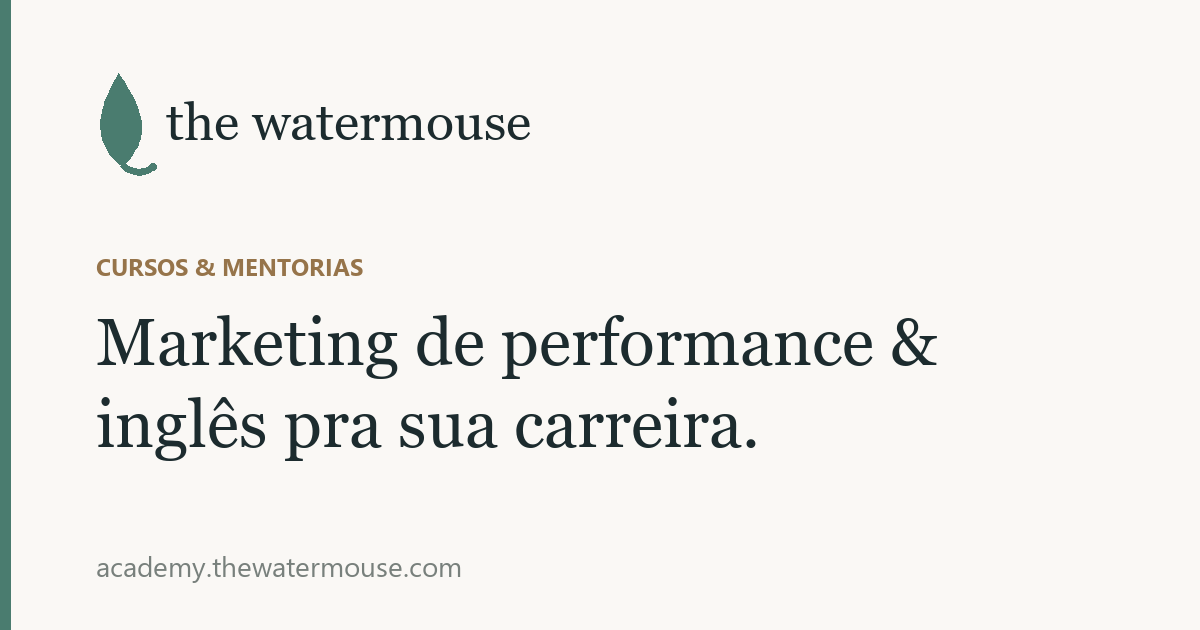
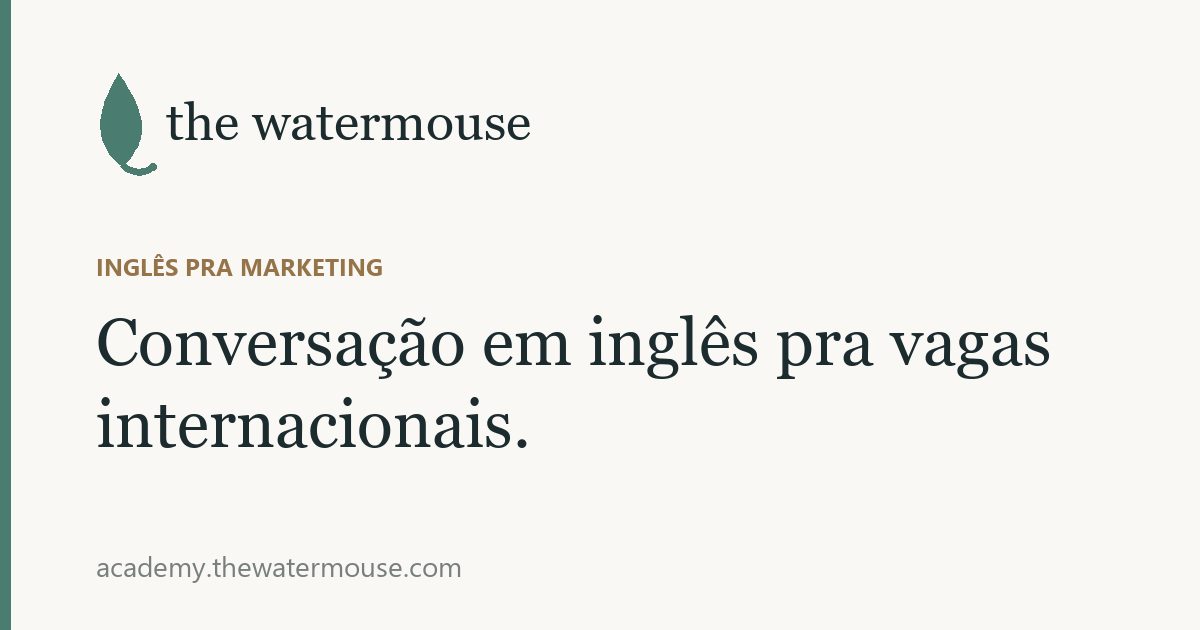
Academy: pivot to English-only — conversation classes for marketing pros seeking international jobs, built on Rodrigo's real story (NL/Cornershop/US remote); drop performance track; new og-image, schema, form level-qualifier

Changed region(s): [[0.0617, 0.4825, 0.8942, 0.6032], [0.1233, 0.6333, 0.6475, 0.754], [0.0617, 0.3921, 0.3392, 0.4524]]

diff --git a/index.html b/index.html
@@ -26,24 +26,24 @@
 })();
 </script>
 <meta name="viewport" content="width=device-width, initial-scale=1.0">
-<title>Watermouse Academy</title>
+<title>Inglês pra marketing — vagas internacionais | Watermouse Academy</title>
 <link href="https://fonts.googleapis.com/css2?family=Fraunces:ital,opsz,wght@0,9..144,300;0,9..144,400;0,9..144,500;1,9..144,300;1,9..144,400&family=DM+Sans:ital,wght@0,300;0,400;0,500;1,300&display=swap" rel="stylesheet">
 <link rel="icon" type="image/svg+xml" href="/favicon.svg">
 <link rel="canonical" href="https://academy.thewatermouse.com/">
 <meta property="og:type" content="website">
 <meta property="og:site_name" content="The Watermouse">
-<meta property="og:title" content="Watermouse Academy">
-<meta property="og:description" content="Marketing de performance na prática + inglês pra carreira, com o Digo — que roda contas de e-commerce na Europa. Entre na lista de espera.">
+<meta property="og:title" content="Inglês pra carreira internacional em marketing | Watermouse Academy">
+<meta property="og:description" content="Aulas de conversação em inglês pra profissionais de marketing que buscam vagas internacionais — entrevistas, reuniões e vocabulário da área. Com o Digo, que trabalha 100% em inglês com empresas americanas. Lista de espera aberta.">
 <meta property="og:url" content="https://academy.thewatermouse.com/">
 <meta property="og:image" content="https://academy.thewatermouse.com/og-image.png">
 <meta property="og:image:width" content="1200">
 <meta property="og:image:height" content="630">
 <meta property="og:locale" content="pt_BR">
 <meta name="twitter:card" content="summary_large_image">
-<meta name="twitter:title" content="Watermouse Academy — performance marketing & inglês pra carreira">
-<meta name="twitter:description" content="Marketing de performance na prática + inglês pra carreira, com quem roda contas de verdade. Lista de espera aberta — condição de fundador pra quem chega cedo.">
+<meta name="twitter:title" content="Inglês pra carreira internacional em marketing | Watermouse Academy">
+<meta name="twitter:description" content="Aulas de conversação em inglês pra profissionais de marketing que buscam vagas internacionais — entrevistas, reuniões e vocabulário da área. Com o Digo, que trabalha 100% em inglês com empresas americanas. Lista de espera aberta.">
 <meta name="twitter:image" content="https://academy.thewatermouse.com/og-image.png">
-<meta name="description" content="Watermouse Academy — aprenda marketing de performance na prática (Google Ads, Meta) e inglês pra carreira, com o Digo, que roda contas de e-commerce na Europa. Lista de espera aberta.">
+<meta name="description" content="Aulas de conversação em inglês pra profissionais de marketing que buscam vagas internacionais — entrevistas, reuniões e vocabulário da área. Com o Digo, que trabalha 100% em inglês com empresas americanas. Lista de espera aberta.">
 <script type="application/ld+json">
 {
   "@context": "https://schema.org",
@@ -55,45 +55,22 @@
       "url": "https://academy.thewatermouse.com/",
       "image": "https://academy.thewatermouse.com/og-image.png",
       "parentOrganization": { "@type": "Organization", "name": "The Watermouse", "url": "https://thewatermouse.com/" },
-      "description": "Mentoria e prática em marketing de performance (Google Ads, Meta, mídia paga) com o Digo, que roda contas de e-commerce na Europa — mais inglês focado em carreira e entrevistas de marketing. Sem teoria solta."
+      "description": "Aulas de conversação em inglês para profissionais de marketing que buscam vagas internacionais, com o Digo — que foi morar na Holanda atrás de uma vaga e hoje trabalha 100% em inglês com empresas americanas."
     },
     {
       "@type": "Course",
-      "name": "Performance Marketing — cursos & mentorias",
+      "name": "English for Marketing Careers",
       "provider": { "@id": "https://academy.thewatermouse.com/#org" },
       "inLanguage": "pt-BR",
-      "description": "Google Ads, Meta, mídia paga e análise — do zero ao nível de quem gere orçamento de verdade. Fundamentos e estrutura de conta, otimização, testes e leitura de dados, com mentoria 1:1 para quem já atua."
-    },
-    {
-      "@type": "Course",
-      "name": "English for Marketing — inglês pra carreira",
-      "provider": { "@id": "https://academy.thewatermouse.com/#org" },
-      "inLanguage": "pt-BR",
-      "description": "Inglês focado em marketing: vocabulário da área, reuniões, apresentações e, principalmente, entrevistas para vagas remotas e internacionais."
+      "description": "Inglês prático e de conversação pra profissionais de marketing conquistarem vagas internacionais e remotas: entrevistas, reuniões, apresentações e o vocabulário da área. Sem teoria solta."
     },
     {
       "@type": "FAQPage",
       "mainEntity": [
-        {
-          "@type": "Question",
-          "name": "O que é a Watermouse Academy?",
-          "acceptedAnswer": { "@type": "Answer", "text": "É onde o Digo — que roda contas de mídia paga pra e-commerce na Europa — te ensina na prática o que funciona em marketing de performance, mais o inglês pra destravar vagas internacionais. Mentoria e cursos diretos, sem teoria solta." }
-        },
-        {
-          "@type": "Question",
-          "name": "Quais são as trilhas?",
-          "acceptedAnswer": { "@type": "Answer", "text": "Duas: Performance Marketing (Google Ads, Meta, mídia paga e análise, com cursos e mentoria 1:1) e English for Marketing (inglês focado em vocabulário da área, reuniões, apresentações e entrevistas)." }
-        },
-        {
-          "@type": "Question",
-          "name": "Já posso me inscrever?",
-          "acceptedAnswer": { "@type": "Answer", "text": "Ainda não abri as primeiras vagas — a lista de espera está aberta. Quem entra cedo garante condição de fundador e é avisado primeiro quando eu abrir." }
-        },
-        {
-          "@type": "Question",
-          "name": "Quem dá as aulas de performance?",
-          "acceptedAnswer": { "@type": "Answer", "text": "O Digo (Rodrigo Kato), que roda contas de e-commerce na Europa." }
-        }
+        { "@type": "Question", "name": "O que é a Watermouse Academy?", "acceptedAnswer": { "@type": "Answer", "text": "São aulas de conversação em inglês pra profissionais de marketing que querem trabalhar lá fora — foco em entrevistas, reuniões e o vocabulário da área. Com o Digo, que foi morar na Holanda atrás de uma vaga e hoje trabalha 100% em inglês com empresas americanas." } },
+        { "@type": "Question", "name": "Pra quem são as aulas?", "acceptedAnswer": { "@type": "Answer", "text": "Pra quem trabalha (ou quer trabalhar) com marketing e busca vagas internacionais ou remotas — pra ganhar a confiança de trabalhar em inglês, mandar bem nas entrevistas e ganhar em dólar." } },
+        { "@type": "Question", "name": "Já posso me inscrever?", "acceptedAnswer": { "@type": "Answer", "text": "Ainda não abri as primeiras vagas — a lista de espera está aberta. Quem entra cedo garante condição de fundador e é avisado primeiro quando eu abrir." } },
+        { "@type": "Question", "name": "Quem dá as aulas?", "acceptedAnswer": { "@type": "Answer", "text": "O Digo (Rodrigo Kato) — foi pra Holanda atrás de uma vaga, já trabalhava em inglês numa empresa global (Cornershop) e hoje mora no Brasil trabalhando 100% com empresas americanas." } }
       ]
     }
   ]
@@ -171,33 +148,29 @@
 <header class="hero">
   <div class="wrap">
     <div class="eyebrow"><span class="dot"></span>Em breve · lista de espera aberta</div>
-    <h1>Marketing que <em>performa</em> — e o inglês pra chegar lá.</h1>
-    <p class="lead">Sou o Digo — rodo contas de mídia paga pra e-commerce na Europa. Aqui eu te ensino, na prática, o que funciona em performance — e o inglês pra destravar as vagas internacionais. Sem teoria solta.</p>
+    <h1>Inglês pra <em>trabalhar (e ganhar) lá fora.</em></h1>
+    <p class="lead">Aulas práticas de conversação em inglês para profissionais de marketing que buscam vagas internacionais. Desenvolva a confiança pra ter um emprego em inglês, ganhar em dólar e alavancar a sua carreira.</p>
   </div>
 </header>
 
 <section class="block">
   <div class="wrap">
-    <div class="label">Como eu posso te ajudar</div>
+    <div class="label">Inglês pra marketing</div>
     <div class="progs">
       <div class="prog">
-        <div class="prog-k">Performance Marketing</div>
-        <div class="prog-h">Mentoria &amp; prática</div>
-        <div class="prog-p">Te ensino Google Ads, Meta, mídia paga e análise — do zero ao nível de quem gere orçamento de verdade. É o que eu faço todo dia rodando contas de e-commerce na Europa.</div>
-        <ul class="prog-list">
-          <li>Fundamentos e estrutura de conta</li>
-          <li>Otimização, testes e leitura de dados</li>
-          <li>Mentoria 1:1 pra quem já atua</li>
-        </ul>
+        <div class="prog-k">Por que comigo</div>
+        <div class="prog-h">Eu vivi isso — não aprendi num curso</div>
+        <div class="prog-p">Fui pra Holanda atrás de uma vaga e fui morar lá. Já trabalhava em inglês numa empresa global (a Cornershop). Hoje moro no Brasil e trabalho 100% com empresas americanas. É esse caminho — conseguir a vaga, trabalhar em inglês e ganhar em dólar — que eu te ajudo a fazer.</div>
       </div>
       <div class="prog">
-        <div class="prog-k">English for Marketing</div>
-        <div class="prog-h">Inglês pra carreira</div>
-        <div class="prog-p">Inglês focado em marketing: vocabulário da área, reuniões, apresentações e — principalmente — entrevistas. O tipo de vaga remota e internacional que eu mesmo faço.</div>
+        <div class="prog-k">As aulas</div>
+        <div class="prog-h">Conversação prática, focada em carreira</div>
+        <div class="prog-p">Nada de gramática solta. A gente treina o inglês que você vai usar de verdade pra conseguir e manter uma vaga internacional.</div>
         <ul class="prog-list">
-          <li>Inglês de entrevista de marketing</li>
-          <li>Vocabulário de mídia paga e dados</li>
-          <li>Prática de apresentação e reunião</li>
+          <li>Inglês de entrevista pra vagas de marketing</li>
+          <li>Conversação, reuniões e apresentações</li>
+          <li>Vocabulário de marketing, mídia paga e dados</li>
+          <li>Confiança pra trabalhar 100% em inglês</li>
         </ul>
       </div>
     </div>
@@ -218,12 +191,12 @@
           <form id="academy-form" novalidate>
             <div class="field"><label for="f-nome">Nome *</label><input type="text" id="f-nome" name="nome" placeholder="Seu nome" required autocomplete="name"></div>
             <div class="field"><label for="f-email">E-mail *</label><input type="email" id="f-email" name="email" placeholder="voce@email.com" required autocomplete="email"></div>
-            <div class="field"><label for="f-interesse">Qual trilha te interessa? *</label>
+            <div class="field"><label for="f-interesse">Como está seu inglês hoje? *</label>
               <select id="f-interesse" name="interesse" required>
                 <option value="" disabled selected>Selecione</option>
-                <option value="Performance Marketing">Marketing de performance (cursos/mentoria)</option>
-                <option value="English for Marketing">Inglês pra carreira de marketing</option>
-                <option value="As duas">As duas</option>
+                <option value="Básico">Básico — travo pra falar</option>
+                <option value="Intermediário">Intermediário — me viro, mas sem confiança</option>
+                <option value="Avançado">Avançado — quero polir pra entrevistas</option>
               </select>
             </div>
             <div class="hp" aria-hidden="true"><label>Não preencha<input type="text" name="_honey" tabindex="-1" autocomplete="off"></label></div>
@@ -273,7 +246,7 @@
     var form=document.getElementById('academy-form'),st=document.getElementById('form-status'),btn=document.getElementById('form-submit'),ok=document.getElementById('form-success');
     function show(t,m){st.className='form-status '+t;st.textContent=m;}
     function good(){form.style.display='none';st.className='form-status';ok.classList.add('show');}
-    function mailfb(d){var b='Nome: '+d.nome+'\nE-mail: '+d.email+'\nTrilha: '+d.interesse+'\n';window.location.href='mailto:'+FALLBACK_EMAIL+'?subject='+encodeURIComponent('Lista de espera Academy — '+d.nome)+'&body='+encodeURIComponent(b);}
+    function mailfb(d){var b='Nome: '+d.nome+'\nE-mail: '+d.email+'\nNível de inglês: '+d.interesse+'\n';window.location.href='mailto:'+FALLBACK_EMAIL+'?subject='+encodeURIComponent('Lista de espera Academy — '+d.nome)+'&body='+encodeURIComponent(b);}
     form.addEventListener('submit',function(e){
       e.preventDefault();st.className='form-status';
       if(form._honey&&form._honey.value){good();return;}
